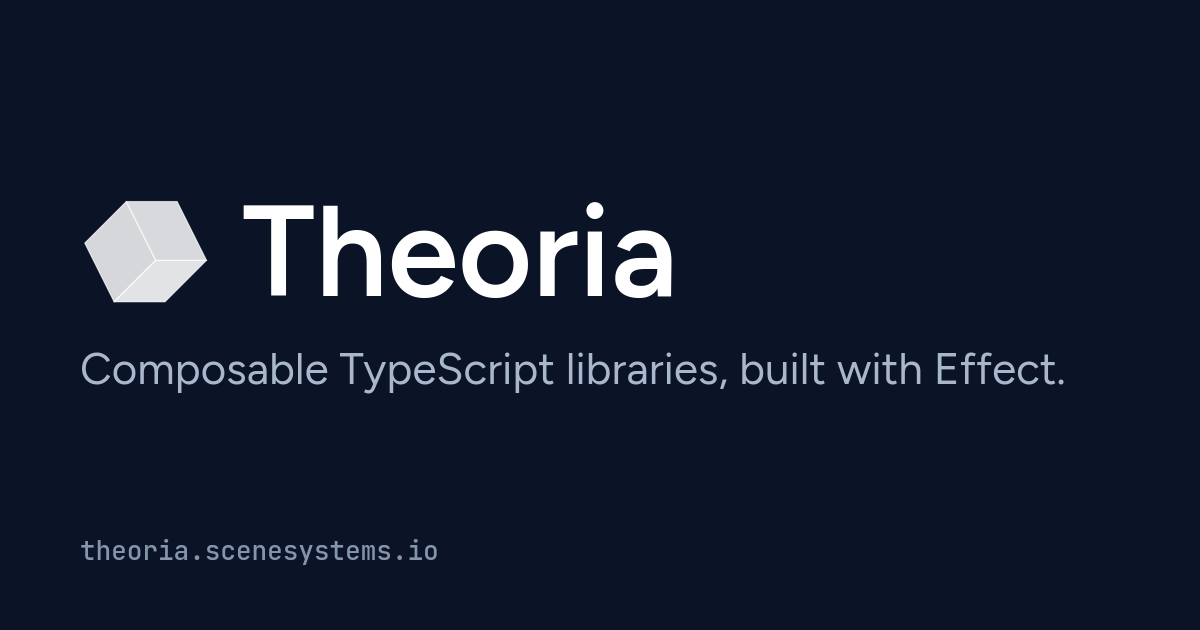
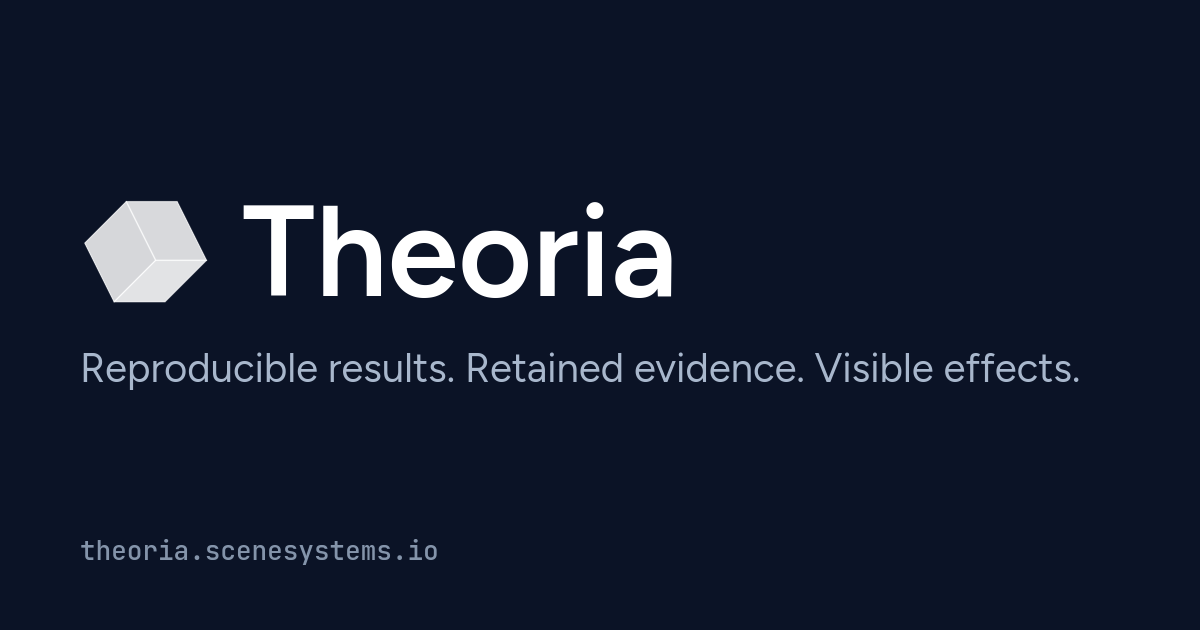
fix(theoria): share-card tagline states Theoria's purpose
Use the three commitments from the README (reproducible results, retained
evidence, visible effects) instead of a generic libraries line.

Amp-Thread-ID: https://ampcode.com/threads/T-01a061d5-2378-7197-9988-70cc24e4233d

Changed region(s): [[0.0617, 0.5429, 0.8942, 0.6333]]

diff --git a/apps/theoria/scripts/social-assets/cards.ts b/apps/theoria/scripts/social-assets/cards.ts
@@ -150,7 +150,7 @@ const logoLockup = (mark: Mark, fonts: Fonts, x: number, baseline: number, fontS
 export const siteCard = (mark: Mark, fonts: Fonts, tagline: string, host: string, output: string): ReadonlyArray<string> => [
   ...canvas(shareCardSize.width, shareCardSize.height, palette.stage),
   ...logoLockup(mark, fonts, margin, 296, 128),
-  ...annotate(fonts.sans, 44, palette.inkMuted, margin, 384, tagline),
+  ...annotate(fonts.sans, 40, palette.inkMuted, margin, 382, tagline),
   ...annotate(fonts.mono, 26, palette.inkFaint, margin, 560, host),
   ...png8(output)
 ]

diff --git a/apps/theoria/app/contracts/metadata.ts b/apps/theoria/app/contracts/metadata.ts
@@ -44,7 +44,7 @@ export const siteMetadata: SiteMetadata = {
   defaultTitle: "Theoria — Scene Systems",
   defaultDescription:
     "Open-source TypeScript libraries for numerics, optimization, language-model programming, text layout, and cryptography, built with Effect.",
-  tagline: "Composable TypeScript libraries, built with Effect.",
+  tagline: "Reproducible results. Retained evidence. Visible effects.",
   twitterHandle: "@scenesystems",
   locale: "en_US",
   repositoryUrl: "https://github.com/scenesystems/theoria"
